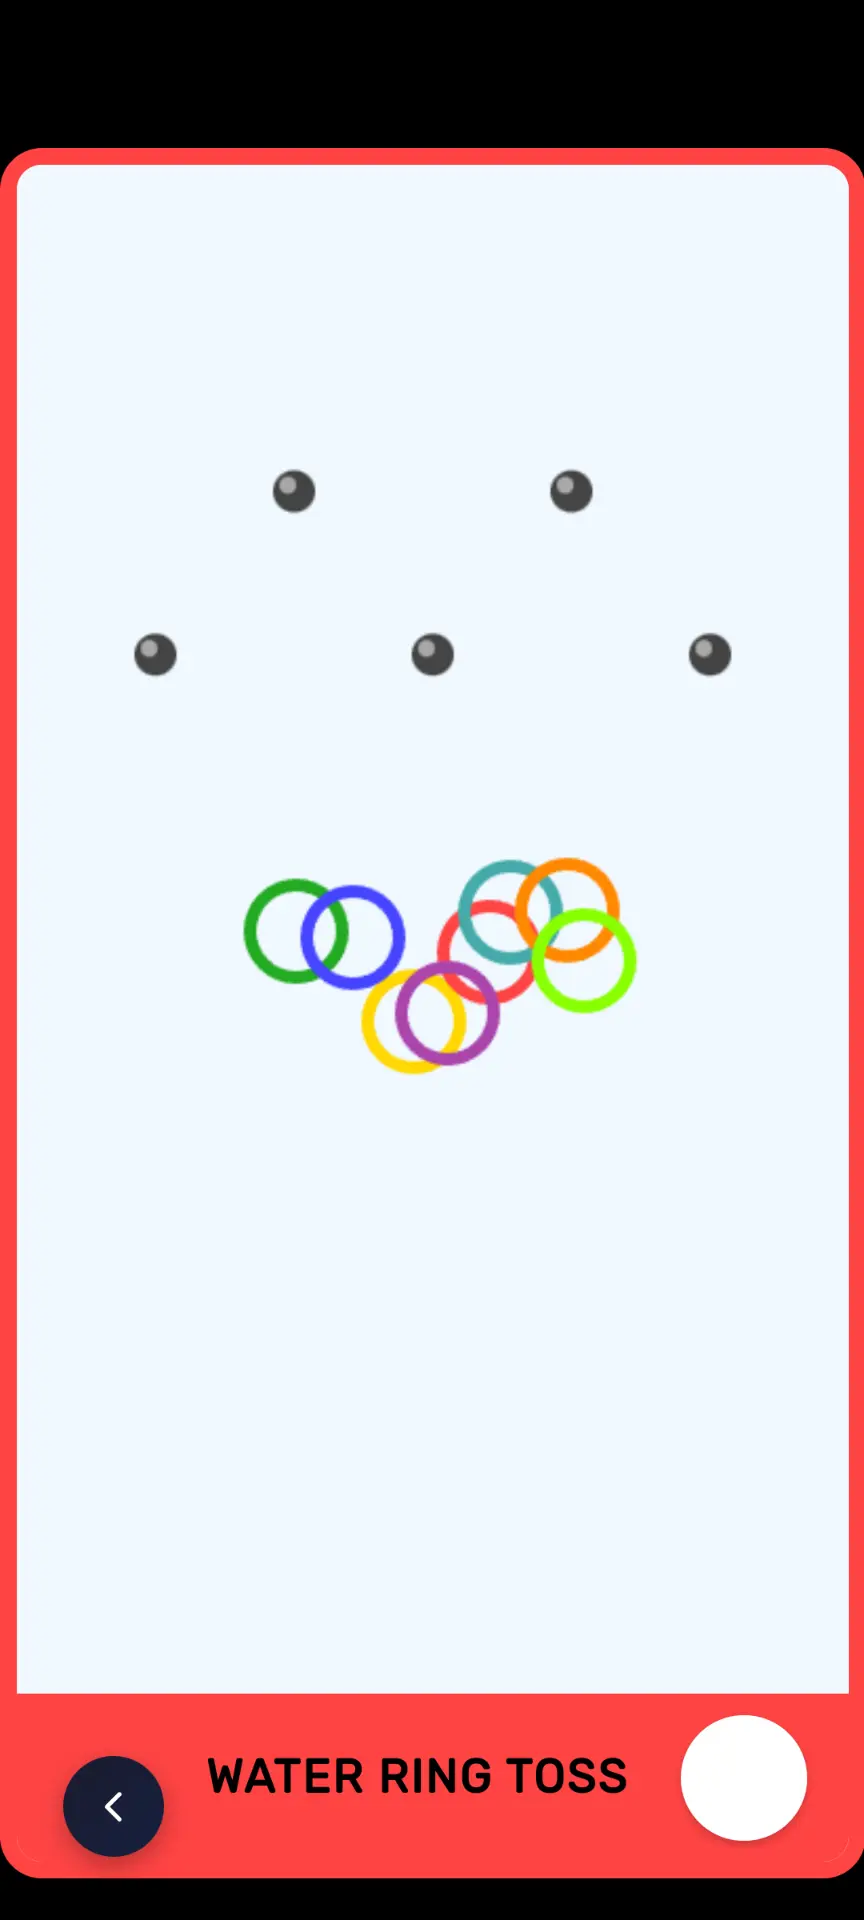
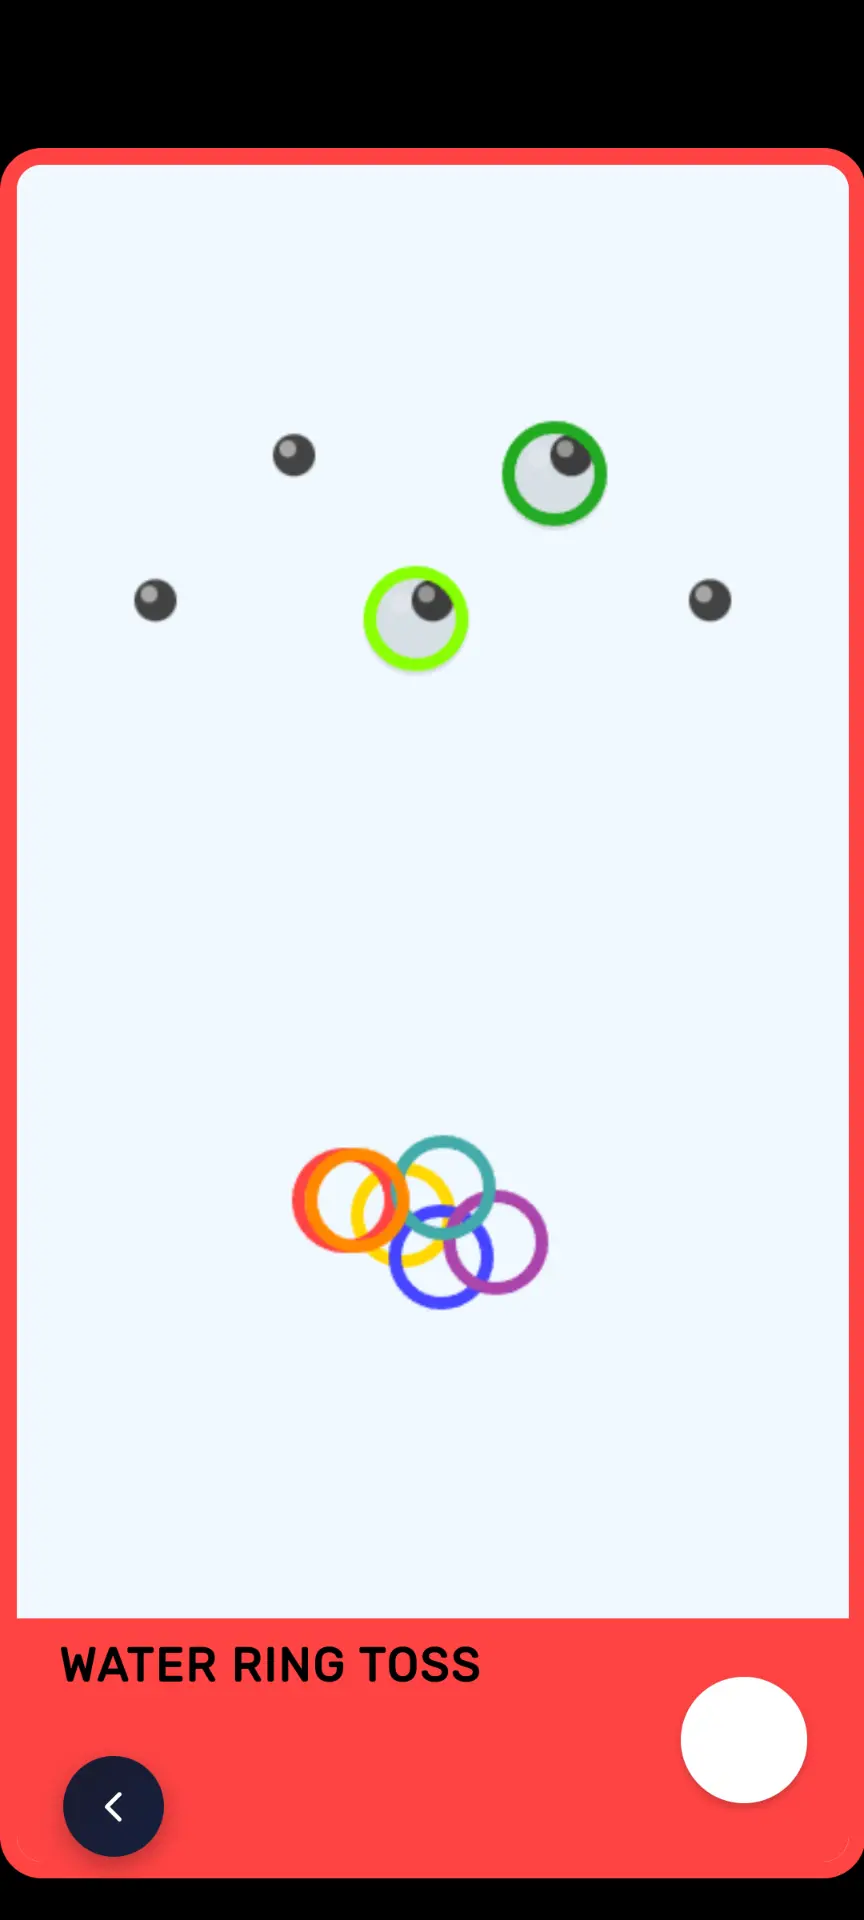
updated water ring toss

diff --git a/water-ring-toss/index.html b/water-ring-toss/index.html
@@ -100,7 +100,7 @@
                 text-transform: uppercase;
                 letter-spacing: 1px;
                 font-weight: bold;
-                margin-left: 70px;
+                margin-bottom: 70px;
             }
             .b {
                 width: 60px;
